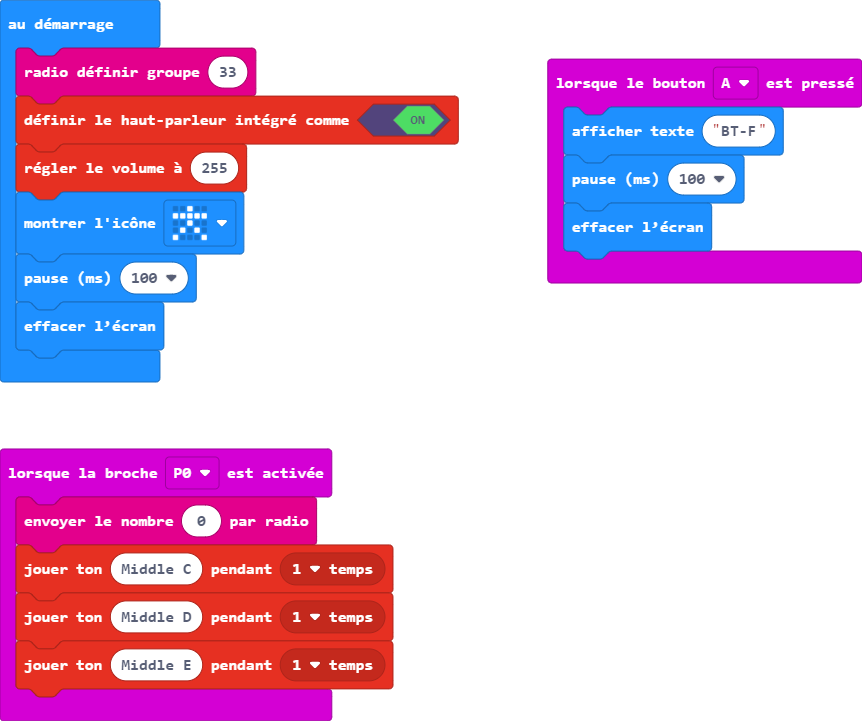
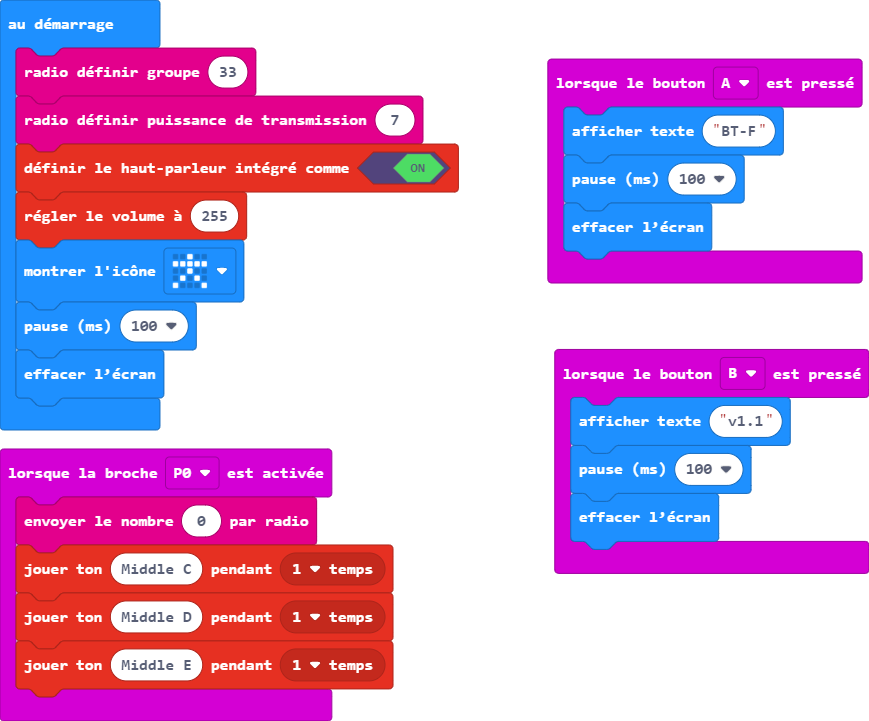
ajout du nom de version et paramétrage max puissance du signal radio

diff --git a/main.ts b/main.ts
@@ -9,7 +9,13 @@ input.onButtonPressed(Button.A, function () {
     basic.pause(100)
     basic.clearScreen()
 })
+input.onButtonPressed(Button.B, function () {
+    basic.showString("v1.1")
+    basic.pause(100)
+    basic.clearScreen()
+})
 radio.setGroup(33)
+radio.setTransmitPower(7)
 music.setBuiltInSpeakerEnabled(true)
 music.setVolume(255)
 basic.showIcon(IconNames.StickFigure)
